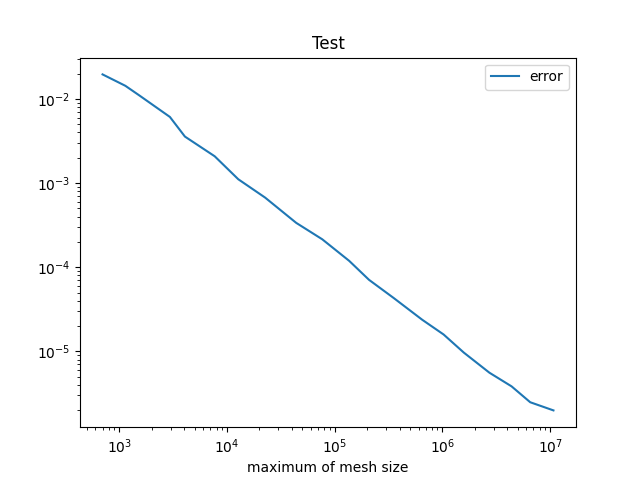
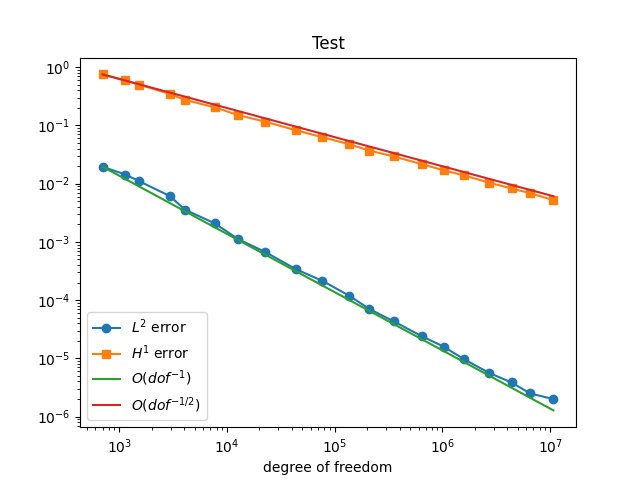
update

diff --git a/hm_square_cantor/test.py b/hm_square_cantor/test.py
@@ -19,8 +19,10 @@ from hm_solver import *
 from firedrake.pyplot import tripcolor
 from matplotlib.ticker import PercentFormatter
 
-nn=int(input("Enter the number of iterations for the pre-fractal boundary: "))
-deg=int(input("Enter the degree of polynomial: "))
+#nn=int(input("Enter the number of iterations for the pre-fractal boundary: "))
+#deg=int(input("Enter the degree of polynomial: "))
+nn=2
+deg=1
 mesh_size=0.2
 # choose a triangulation
 geo = MakeGeometry(nn)
@@ -31,7 +33,8 @@ max_iterations = 30
 # stop refinement when sum_eta less than tolerance
 tolerance=1*1e-3
 df=[] # mesh size, degree of freedom
-err=[] # error of solution
+err=[] #  L2 error of solution
+err2=[] # H1 error 
 sum_eta=1
 it=0
 while sum_eta>tolerance and it<max_iterations:
@@ -53,13 +56,20 @@ while sum_eta>tolerance and it<max_iterations:
     df.append(V.dof_dset.layout_vec.getSize())
     err_temp=sqrt(assemble(dot(uh - u, uh - u) * dx))
     err.append(err_temp)
+    err2_temp=sqrt(assemble(dot(uh - u, uh - u) * dx)+assemble(dot(grad(uh) -grad(u), grad(uh) - grad(u)) * dx))
+    err2.append(err2_temp)
+    print("Error of solution in L2 norm is ", err_temp)
+    print("Error of solution in H1 norm is ", err2_temp)
 import math
-#NN=np.array([1.1*(df[i]/df[0])**2*err[0] for i in range(0,len(err))])
-plt.figure(1)
-plt.loglog(df, err)
-#plt.loglog(df, NN)
-plt.legend(['error'])
-plt.xlabel('maximum of mesh size')
+NN=np.array([(df[0]/df[i])**(1.)*err[0] for i in range(0,len(err))])
+NN2=np.array([(df[0]/df[i])**(1./2.)*err2[0] for i in range(0,len(err))])
+plt.figure()
+plt.loglog(df, err,marker='o')
+plt.loglog(df, err2,marker='s')
+plt.loglog(df, NN)
+plt.loglog(df, NN2)
+plt.legend(['$L^2$ error', '$H^1$ error', '$O(dof^{-1})$','$O(dof^{-1/2})$'])
+plt.xlabel('degree of freedom')
 plt.title('Test')
 plt.savefig(f"test_figs/test_{nn}.png")
 print(f"Error vs mesh size saved to figures/test_{nn}.png")
